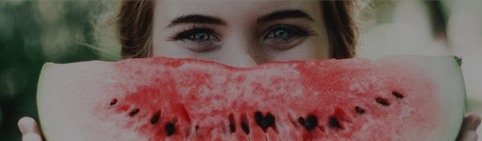
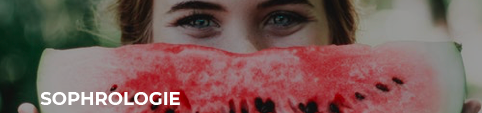
update page and new page

diff --git a/styles/main.css b/styles/main.css
@@ -64,22 +64,68 @@ header .nav .navigation .listNavigation li a{
 
 /*Sophrology Page*/
 
-.main img.imgTitle{
-    width: 100%;
-    height: auto;
+.main .imgPresentation{
+    width: 100vw;
+    height: 200px;
+    background-image: url("../images/sophrology.png");
+    background-size: 100%;
+    overflow: hidden;
     position: relative;
 }
 
-.main .titleSophrology{
-    position: absolute;
-    left: 12vw;
-    bottom: 270px;
-    text-transform: uppercase;
-    font-size: 3.5rem;
+.main .imgPresentation h2{
     color: #FFFFFF;
+    font-size: 2rem;
+    position: absolute;
+    bottom: 30px;
+    left: 120px;
+    margin: 0;
+}
+
+.main .imgPresentationHypnose{
+    width: 100vw;
+    height: 200px;
+    background-image: url("../images/hypnose.jpg");
+    background-size: 100%;
+    overflow: hidden;
+    position: relative;
+}
+
+.main .imgPresentationHypnose h2{
+    color: #FFFFFF;
+    font-size: 2rem;
+    position: absolute;
+    bottom: 30px;
+    left: 120px;
+    margin: 0;
+}
+
+.main .imgPresentationConscience{
+    width: 100vw;
+    height: 200px;
+    background-image: url("../images/pleine\ conscience.jpg");
+    background-size: 100%;
+    overflow: hidden;
+    position: relative;
+}
+
+.main .imgPresentationConscience h2{
+    color: #FFFFFF;
+    font-size: 2rem;
+    position: absolute;
+    bottom: 30px;
+    left: 120px;
+    margin: 0;
 }
 
 /*What Is*/
+
+.main .border30{
+    width: 32vw;
+    height: 5px;
+    background-color: #F47373;
+    margin-left: -20vw;
+}
 
 .main .whatIs{
     width: 60vw;
@@ -94,6 +140,7 @@ header .nav .navigation .listNavigation li a{
 .main .whatIs h3.whatIsQuestion{
     font-weight: bold;
     font-size: 2rem; 
+    margin-bottom: 2px;
 }
 
 .main .whatIs p{
@@ -109,18 +156,38 @@ header .nav .navigation .listNavigation li a{
 }
 
 .main .why{
+    width: 80vw;
+    margin:0 auto;
+}
+
+.main .why p{
+    font-size: 1.1rem;
+}
+
+.main .why h3.whyQuestionHypnose{
+    font-size: 2rem;
+    font-weight: bold;
+}
+
+.main .why .listWhy{
+    list-style: none;
+    font-size: 1.1rem;
+    padding: 0;
+}
+
+.main .whySophrology{
     display: flex;
     justify-content: space-between;
     width: 70vw;
     margin:0 auto;
 }
 
-.main .why h4.titleWhy{
+.main .whySophrology h4.titleWhy{
     color: #F47373;
     font-size: 1.1rem;
 }
 
-.main .why .listWhy{
+.main .whySophrology .listWhy{
     list-style: none;
     font-size: 1.1rem;
     padding: 0;
@@ -136,6 +203,7 @@ header .nav .navigation .listNavigation li a{
 .main .who h3.whoQuestion{
     font-weight: bold;
     font-size: 2rem; 
+    margin-bottom: 2px;
 }
 
 .main .who p{
@@ -160,20 +228,11 @@ header .nav .navigation .listNavigation li a{
 
 /*Hypnose Page*/
 
-.main .whyHypnose{
-    width: 80vw;
-    margin:0 auto;
-}
 
-.main .whyHypnose h3.whyQuestionHypnose{
-    font-size: 2rem;
-    font-weight: bold;
-}
+/*Conscience Page*/
 
-.main .whyHypnose .listWhy{
-    list-style: none;
-    font-size: 1.1rem;
-    padding: 0;
+.main .why .advertissement{
+    color: #F47373;
 }
 
 /*Footer*/

diff --git a/pages/conscience.html b/pages/conscience.html
@@ -25,10 +25,38 @@
             </div>
         </nav>
     </header>
-    <main>
-        <!-- Slider présentation -->
-        <div class="slider">
-            OUI
+    <main class="main">
+        <div class="imgPresentationConscience">
+            <h2>PLEINE CONSCIENCE</h2>
+        </div>
+        <div class="whatIs">
+            <h3 class="whatIsQuestion">C'est quoi ?</h3>
+            <div class="border30"></div>
+            <p>
+                L'appellation « pleine conscience » est la traduction française de mindfulness en anglais, désignation de Jon Kabat-Zinn pour distinguer l'état recherché dans une pratique laïque et thérapeutique d'une forme de méditation ayant pour but la réduction du stress (MBSR) ou la prévention de rechutes dépressives (MBCT).
+            </p>
+            <p>
+                C’est une méditation particulière adaptée aux occidentaux qui est basée sur l’attention au moment présent
+            </p>
+        </div>
+        <div class="why">
+            <h3 class="whyQuestion">Pour quoi ?</h3>
+            <p>
+                Etant formée au protocole MBSR,je l’utilise dans la gestion du stress et la prévention des récidives dépressives mais j intégre  la pratique dans mes accompagnements afin de rendre mes clients autonomes dans la prise en charge de leur état anxieux
+            </p>
+            <p>
+                <span class="advertissement">La pratique de la méditation permet d’abaisser le niveau de stress et ainsi de mieux gerer la douleur</span> notamment la sécrétion d’endorphines déclenchée par sa pratique permet d entretenir un état de calme intérieur et de bien être  qui permet d’appréhender les épreuves de la vie avec plus de sérénité et donc plus de recul
+            </p>
+            <p>
+                Elle est parfaitement adaptée dans l’accompagnement de la maladie, la gestion du stress, l’amélioration de la concentration.
+            </p>
+        </div>
+        <div class="who">
+            <h3 class="whoQuestion">Pour qui ?</h3>
+            <div class="border30"></div>
+            <p>
+                Elle peut etre pratiquée par tous et nécessite un entrainement régulier qui peut etre facilité par les enregistrements que je vous remettrais. 
+            </p>
         </div>
     </main>
     <footer>

diff --git a/pages/hypnose.html b/pages/hypnose.html
@@ -26,8 +26,12 @@
         </nav>
     </header>
     <main class="main">
+            <div class="imgPresentationHypnose">
+                <h2>HYPNOSE</h2>
+            </div>
         <div class="whatIs">
             <h3 class="whatIsQuestion">C'est quoi ?</h3>
+            <div class="border30"></div>
             <p>
                 L’hypnose est un état de conscience modifiée ou augmentée, c’est-à-dire que le client est dans un état de grande détente mentale et/ou physique qui permet de se libérer de ses freins, de ses a priori, de ses œillères et ainsi d’accéder à l’inconscient. C’est notre inconscient qui automatise la plupart de nos comportements, c’est donc à lui qu’il faut s’adresser pour modifier un automatisme ou une habitude. <br>
                 En hypnose, on travaille donc sur l’inconscient de façon à agir directement sur le comportement à corriger, en cherchant à éradiquer la racine du problème.   
@@ -37,7 +41,7 @@
                 L'hypnose permet de compléter un traitement médical ou une psychothérapie mais ne les remplace en aucun cas.
             </p>
         </div>
-        <div class="whyHypnose">
+        <div class="why">
             <h3 class="whyQuestionHypnose">Pour quoi ?</h3>
             <ul class="listWhy">
                 <li>Addictions : tabac, alcool, sucre...</li>
@@ -54,11 +58,12 @@
         </div>
         <div class="who">
             <h3 class="whoQuestion">Pour qui ?</h3>
+            <div class="border30"></div>
             <p>
                 L’hypnose est une technique accessible à tous : hommes, femmes, enfants, adolescents, seniors.
             </p>
             <p>
-                Tout le monde est réceptif à l’hypnose. En effet, l’état d’hypnose est naturel et l’on y entre environ toutes les heures et demi : lorsque nous rêvassons ou que nous réalisons une tâche de façon automatique. 
+                 Tout le monde est réceptif à l’hypnose. En effet, l’état d’hypnose est naturel et l’on y entre environ toutes les heures et demi : lorsque nous rêvassons ou que nous réalisons une tâche de façon automatique. 
             </p>
         </div>
     </main>

diff --git a/pages/sophrology.html b/pages/sophrology.html
@@ -26,10 +26,12 @@
         </nav>
     </header>
     <main class="main">
-        <img class="imgTitle" src="../images/watermelon.png" alt="watermelon">
-        <h2 class="titleSophrology">Sophrologie</h2>
+        <div class="imgPresentation">
+            <h2>SOPHROLOGIE</h2>
+        </div>
         <div class="whatIs">
             <h3 class="whatIsQuestion">C'est quoi ?</h3>
+            <div class="border30"></div>
             <p>
                 Méthode exclusivement verbale et non tactile, la sophrologie emploie un ensemble de techniques qui vont à la fois agir sur le corps et sur le mental. Elle combine des exercices qui travaillent à la fois sur la respiration, la décontraction musculaire et l’imagerie mentale (ou visualisation). Toutes ces techniques permettent de retrouver un état de bien-être et d’activer tout son potentiel. La sophrologie permet d’acquérir une meilleure connaissance de soi et d’affronter les défis du quotidien avec sérénité.
             </p>
@@ -42,7 +44,7 @@
             </p>
         </div>
         <h3 class="whyQuestion">Pour quoi ?</h3>
-        <div class="why">
+        <div class="whySophrology">
             <div class="leftWhy">
                 <h4 class="titleWhy">Pour améliorer le quotidien :</h4>
                 <ul class="listWhy">
@@ -96,6 +98,7 @@
         </div>
         <div class="who">
             <h3 class="whoQuestion">Pour qui ?</h3>
+            <div class="border30"></div>
             <p>
                 La sophrologie peut être pratiquée à tout âge <br>
                 Son principe d'adaptabilité prend en compte les contraintes de motricité, d'age …. <br>
